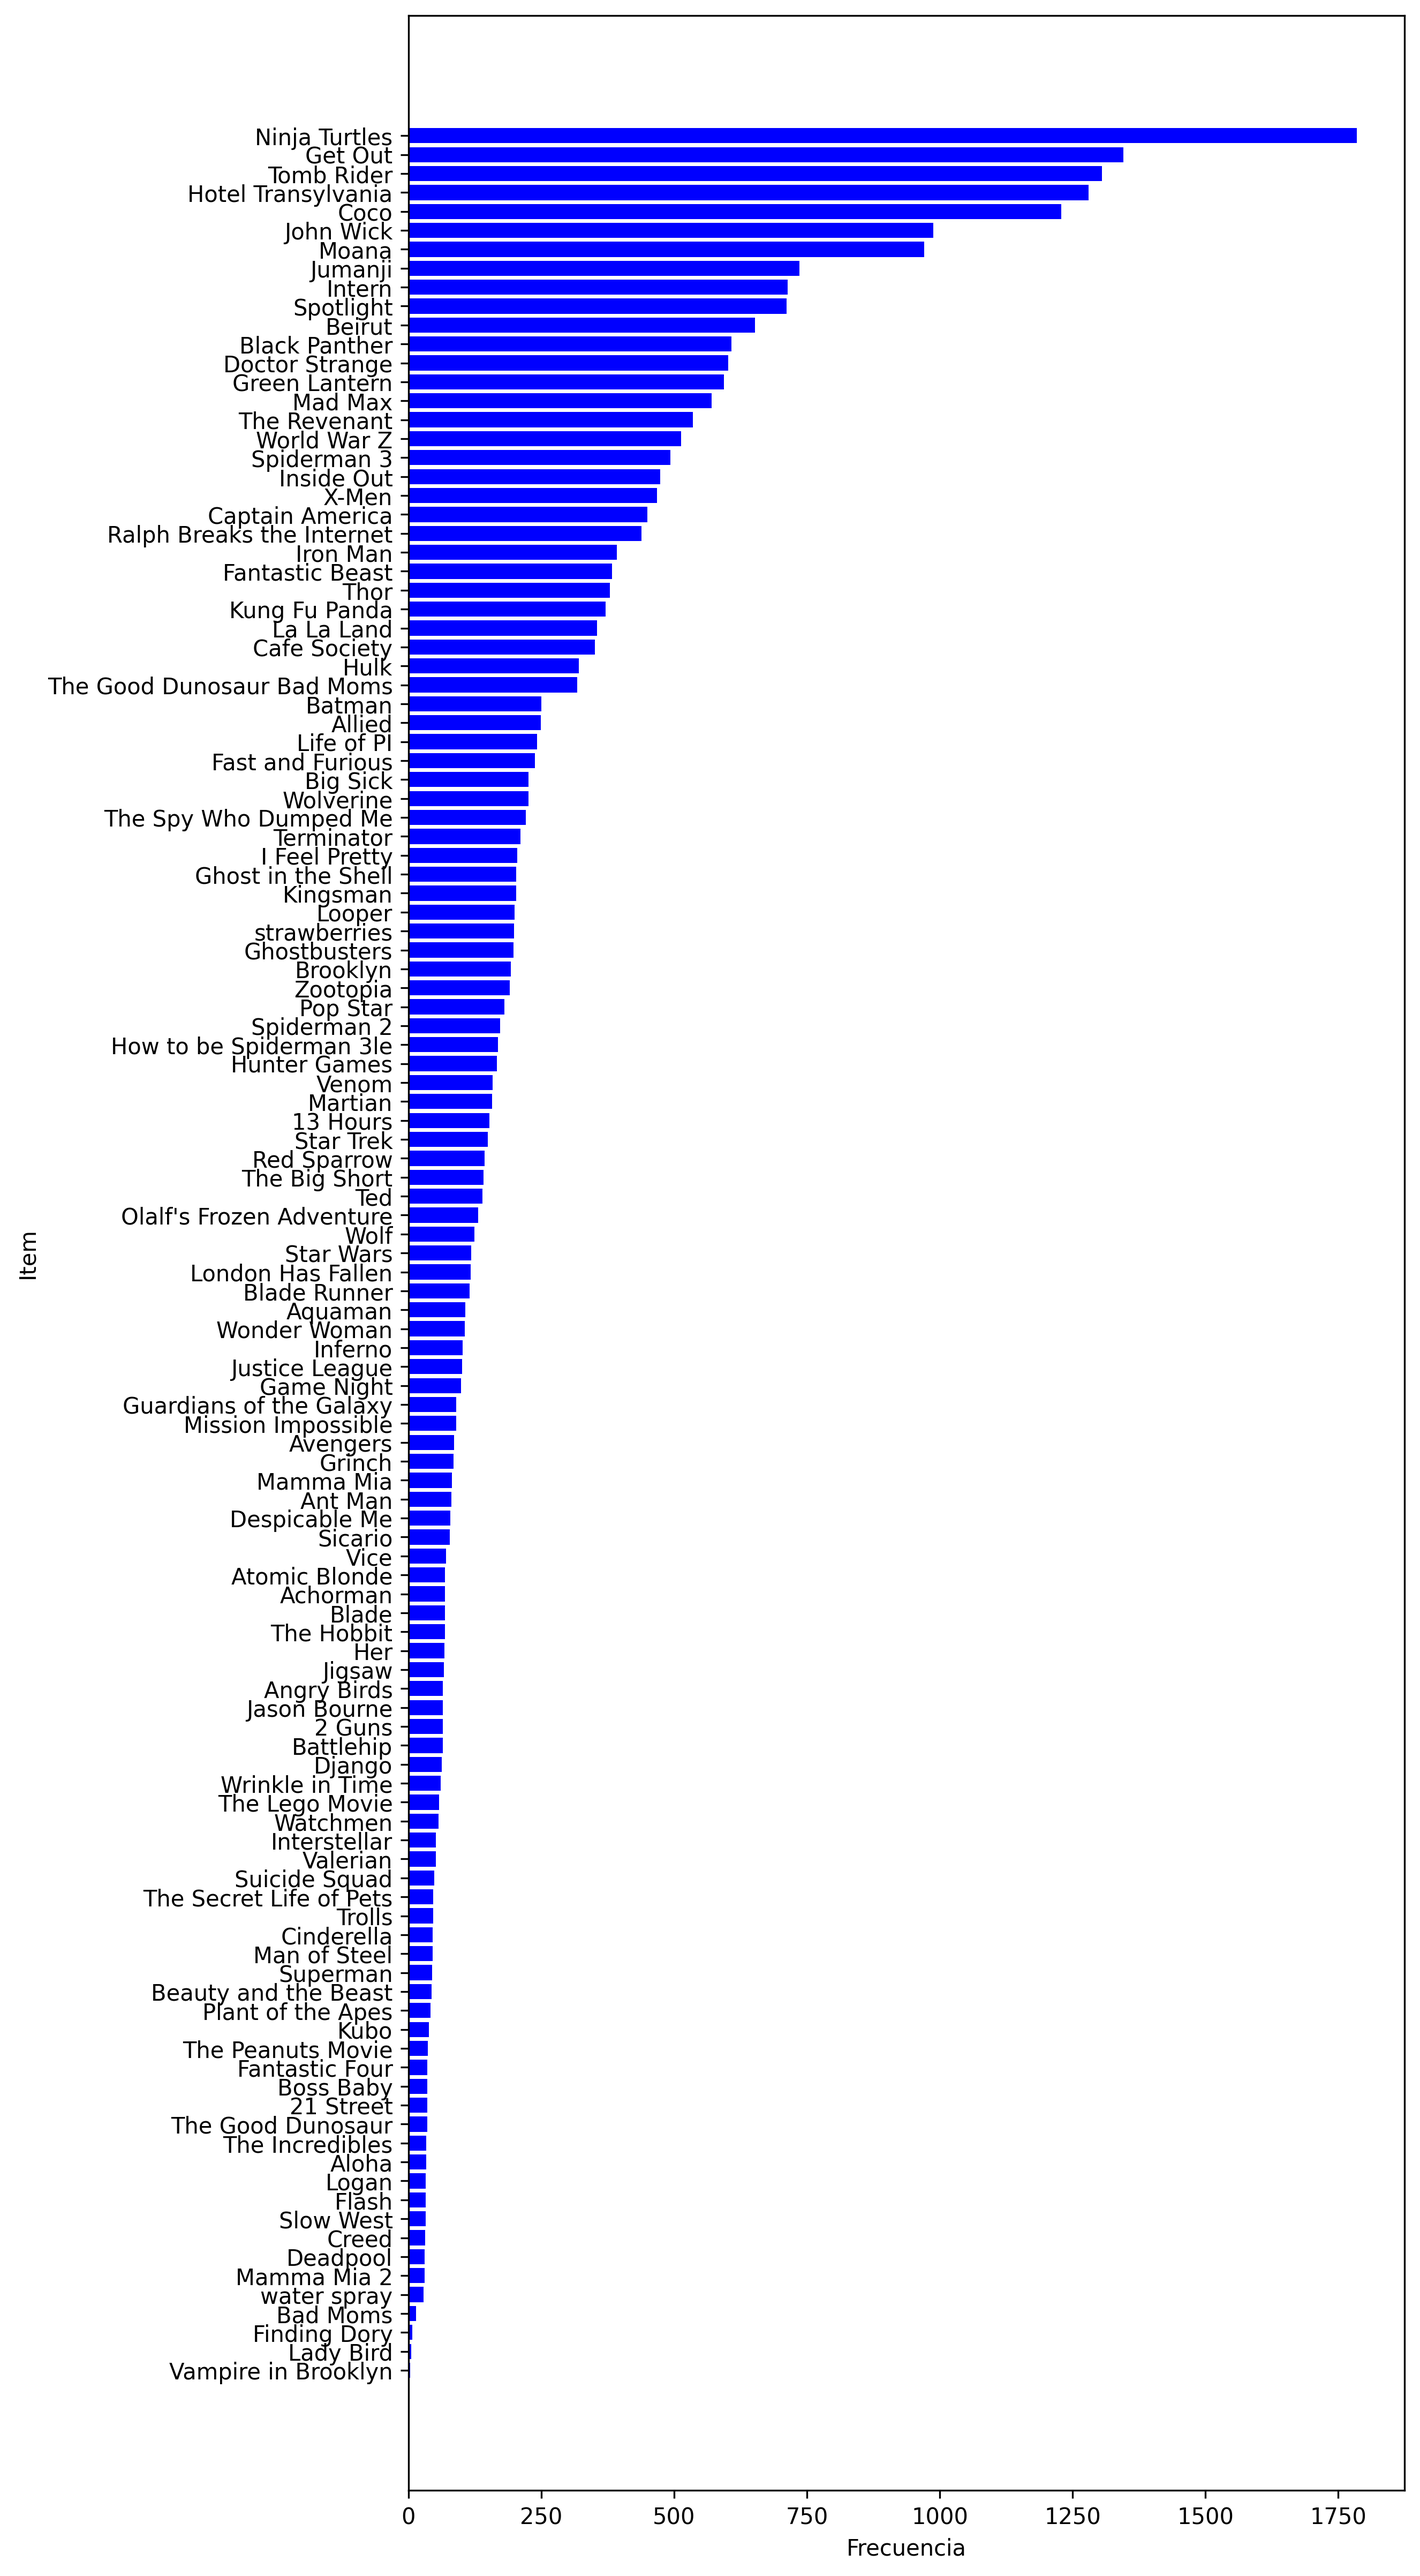
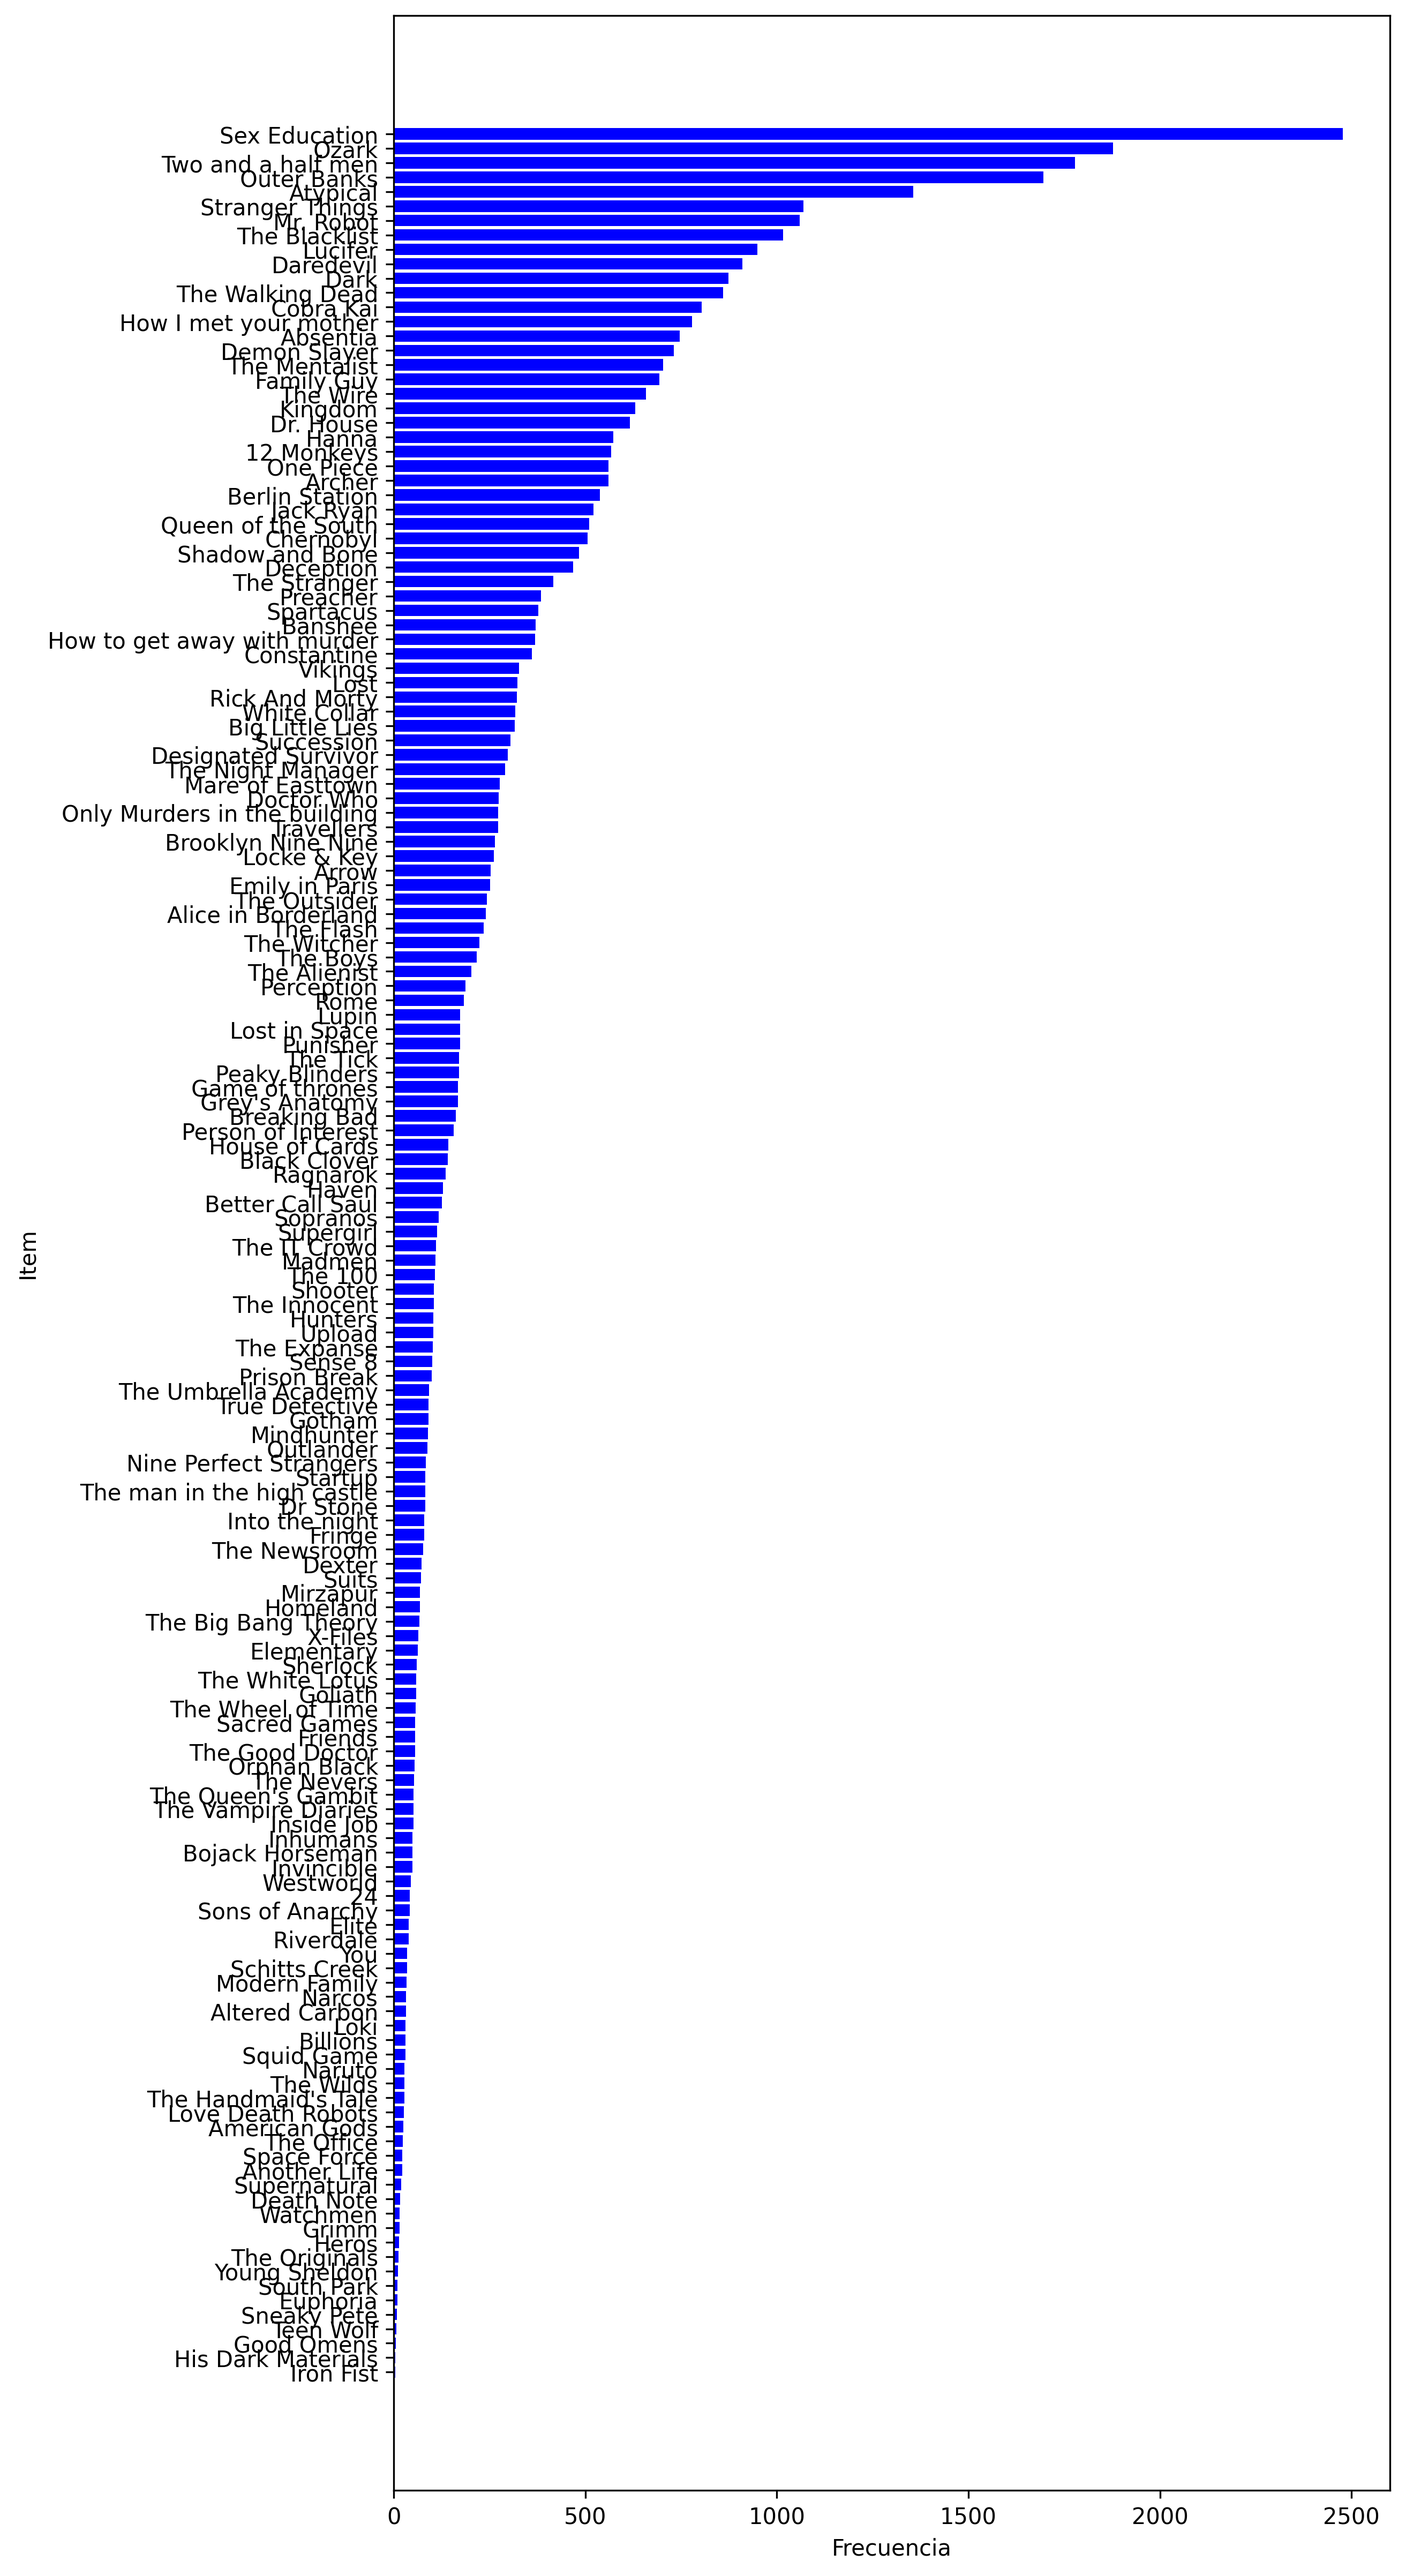
Euclidian distance algorithm now functional from the interface

diff --git a/MagicMine/src/templates/metricasEuclidiana.html b/MagicMine/src/templates/metricasEuclidiana.html
@@ -39,7 +39,8 @@
     </style>
 </head>
 <body>
-    <h1>Resultado</h1>
+    
+    <h1>Resultados</h1>
     <div>
         <h1>Matriz estandarizada</h1>>
         {{ euclidianSample|safe }}
@@ -48,6 +49,17 @@
         <h1>Matriz euclidiana</h1>
         {{ MEuclidiana | safe}}
     </div>
+
+    <div>
+        <h1>Matriz parcial estandarizada</h1>>
+        {{ MParcial|safe }}
+    </div>    
+    <div>
+        <h1>La distancia euclidiana entre los elementos [{{A}}] y [{{B}}] solicitados es: {{ Dst }}</h1>
+
+    </div>
+    
+        
     <div class="button-container">
         <a href="/metricas">Regresar</a>
     </div>

diff --git a/MagicMine/src/api/routes.py b/MagicMine/src/api/routes.py
@@ -8,7 +8,8 @@ from werkzeug.utils import secure_filename
 from datetime import datetime
 from scipy.spatial.distance import cdist
 from src.api import app
-from src.ia.aprioriC import Apriori
+from src.ia.aprioriModule import Apriori
+from src.ia.metricasModule import Metricas
 
 @app.route('/')
 @app.route('/home')
@@ -62,48 +63,55 @@ def metricas():
     csv_files = [file for file in files if file.endswith('.csv')]
     return render_template('metricas.html', csv_files=csv_files)
 
+
+
 @app.route('/metricas/process', methods=['POST'])
 def metricasProcess():
     selected_file = request.form['file']
     option = request.form['option']
-
+    lim_inf = int(request.form['limInf'])
+    lim_sup = int(request.form['limSup'])
+    dist_a = int(request.form['distA'])
+    dist_b = int(request.form['distB'])
+    
     if option == "Euclidiana":
-        return redirect(url_for('metricasEuclidiana', selected_file=selected_file))
+        return redirect(url_for('metricasEuclidiana', selected_file=selected_file, lim_inf=lim_inf, lim_sup=lim_sup, dist_a=dist_a, dist_b=dist_b))
     elif option == "Chebyshev":
-        return redirect(url_for('metricasChebyshev', selected_file=selected_file))
+        return redirect(url_for('metricasChebyshev', selected_file=selected_file, lim_inf=lim_inf, lim_sup=lim_sup, dist_a=dist_a, dist_b=dist_b))
     elif option == "Manhattan":
-        return redirect(url_for('metricasManhattan', selected_file=selected_file))
+        return redirect(url_for('metricasManhattan', selected_file=selected_file, lim_inf=lim_inf, lim_sup=lim_sup, dist_a=dist_a, dist_b=dist_b))
     elif option == "Minkowski":
-        return redirect(url_for('metricasMinkowski', selected_file=selected_file))
+        return redirect(url_for('metricasMinkowski', selected_file=selected_file, lim_inf=lim_inf, lim_sup=lim_sup, dist_a=dist_a, dist_b=dist_b))
+
 
 
 #Euclidiana, Chebyshev, Manhattan, Minkowski
 
-@app.route("/metricas/euclidian")
+@app.route("/metricas/euclidian", methods=['GET', 'POST'])
 def metricasEuclidiana():
-    input_folder = 'input'
-    selected_file = request.args.get('selected_file')
-    df = pd.read_csv(os.path.join(input_folder, selected_file))
-    print(df)
-    if selected_file is None:
-        # Manejar la situación si la clave "file" no está presente en la solicitud POST
-        return "Error: No se proporcionó el archivo seleccionado"
     
+    selected_file = request.args.get('selected_file')
+    distA = int(request.args.get('dist_a'))
+    distB = int(request.args.get('dist_b'))
+    limInferior = int(request.args.get('lim_inf'))
+    limSuperior = int(request.args.get('lim_sup'))
+    metricas = Metricas(selected_file)
+    print(distA,distB,limInferior,limSuperior,selected_file)
+    MEstandarizada = metricas.createME()
+    MEuclidiana = metricas.createMEuclidian(MEstandarizada)
+    MParcial = metricas.partialEuclidianDistance(MEuclidiana, limInferior,limSuperior)
+    Dst = metricas.distEuclidian(MEuclidiana, distA, distB)
 
-    #Logica del algoritmo
-    #Estandarizando matriz
-    estandarizar = StandardScaler()                               # Se instancia el objeto StandardScaler o MinMaxScaler 
 
-    # Estandarizar matriz
-    MEstandarizada = estandarizar.fit_transform(df)    
-    euclidianSample = pd.DataFrame(MEstandarizada)
-    print(MEstandarizada)
-    print(euclidianSample)
-    euclidianSample_html = euclidianSample.to_html()
-    DstEuclidiana = cdist(MEstandarizada, MEstandarizada, metric='euclidean')
-    MEuclidiana = pd.DataFrame(DstEuclidiana)
-    MEuclidiana_html = MEuclidiana.to_html()
-    return render_template("metricasEuclidiana.html",euclidianSample=euclidianSample_html,MEuclidiana=MEuclidiana_html)
+    return render_template("metricasEuclidiana.html"
+                           ,euclidianSample=MEstandarizada.to_html()
+                           ,MEuclidiana=MEuclidiana.to_html()
+                           , MParcial = MParcial.to_html()
+                           , Dst = Dst, A = distA, B =distB)
+
+
+#Euclidiana, Chebyshev, Manhattan, Minkowski
+
 
 @app.route("/metricas/chebyshev")
 def metricasChebyshev():

diff --git a/MagicMine/src/ia/metricasModule.py b/MagicMine/src/ia/metricasModule.py
@@ -1,0 +1,47 @@
+import os
+import pandas as pd
+
+from multiprocessing import current_process
+from flask import request
+from sklearn.preprocessing import StandardScaler  
+from scipy.spatial.distance import cdist
+from scipy.spatial import distance
+current_dir = os.path.dirname(os.path.abspath(__file__))
+
+class Metricas:
+        
+    def __init__(self, fileName):
+        self.file = os.path.join(current_dir, f'../../input/{fileName}')
+
+    def createME(self):
+       
+        df = pd.read_csv(self.file)
+        #Logica del algoritmo
+        #Estandarizando matriz
+        estandarizar = StandardScaler()                               # Se instancia el objeto StandardScaler o MinMaxScaler 
+
+        # Estandarizar matriz
+        MEstandarizada = estandarizar.fit_transform(df)    
+        euclidianSample = pd.DataFrame(MEstandarizada)
+        
+        return euclidianSample
+   
+    def createMEuclidian(self, MEstandarizada):
+       
+        DstEuclidiana = cdist(MEstandarizada, MEstandarizada, metric='euclidean')
+        MEuclidiana = pd.DataFrame(DstEuclidiana)
+        
+        return MEuclidiana
+    def partialEuclidianDistance(self,MEuclidiana,limInferior, limSuperior):
+        #Matriz de distancias de una parte del total de objetos
+
+        DstEuclidiana = cdist(MEuclidiana[limInferior:limSuperior], MEuclidiana[limInferior:limSuperior], metric='euclidean')
+        MEuclidiana = pd.DataFrame(DstEuclidiana)
+        return MEuclidiana
+
+    def distEuclidian(self, MEuclidiana, distA, distB):
+        #Distancia entre dos objetos
+        Objeto1 = MEuclidiana[distA]
+        Objeto2 = MEuclidiana[distB]
+        dstEuclidiana = distance.euclidean(Objeto1,Objeto2)
+        return dstEuclidiana

diff --git a/MagicMine/src/ia/aprioriModule.py b/MagicMine/src/ia/aprioriModule.py
@@ -5,6 +5,7 @@ import pandas as pd            # Para crear vectores y matrices n dimensionales
 import matplotlib.pyplot as plt     # Para la generación de gráficas a partir de los datos
 from apyori import apriori
 
+
 current_dir = os.path.dirname(os.path.abspath(__file__))
 
 class Apriori:

diff --git a/MagicMine/main.py b/MagicMine/main.py
@@ -4,4 +4,4 @@ sys.path.insert(0,"..")
 from src.api import app
 
 if __name__ == "__main__":
-    app.run()
+    app.run(debug = True)
